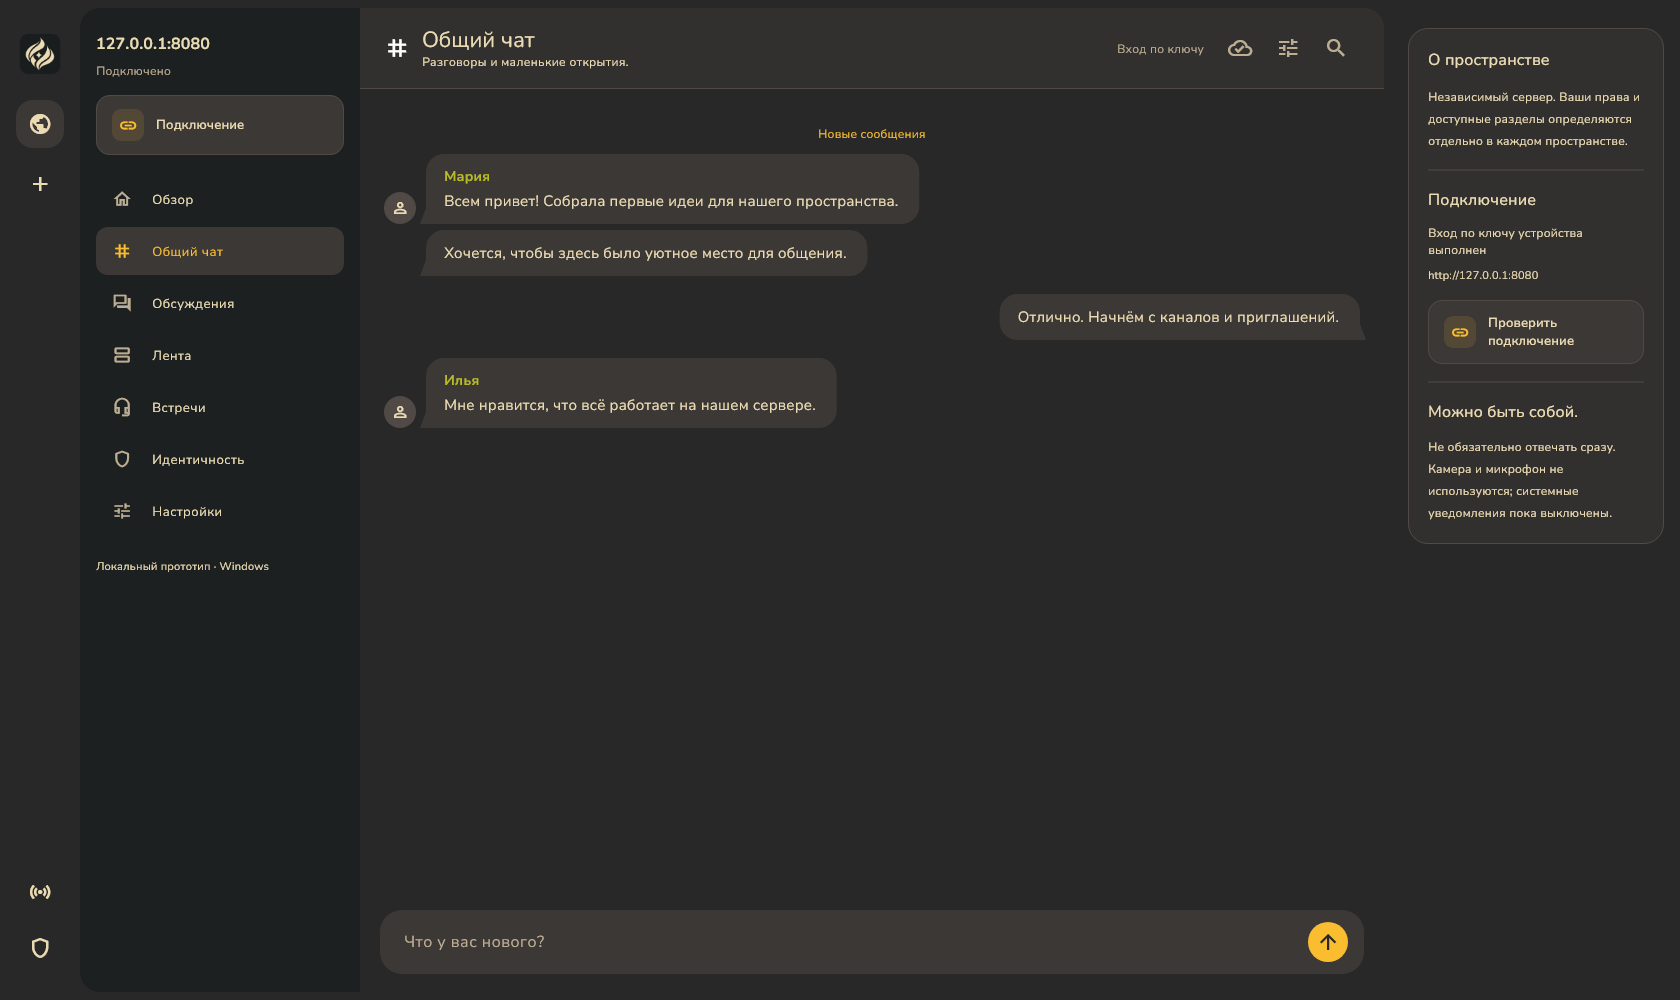
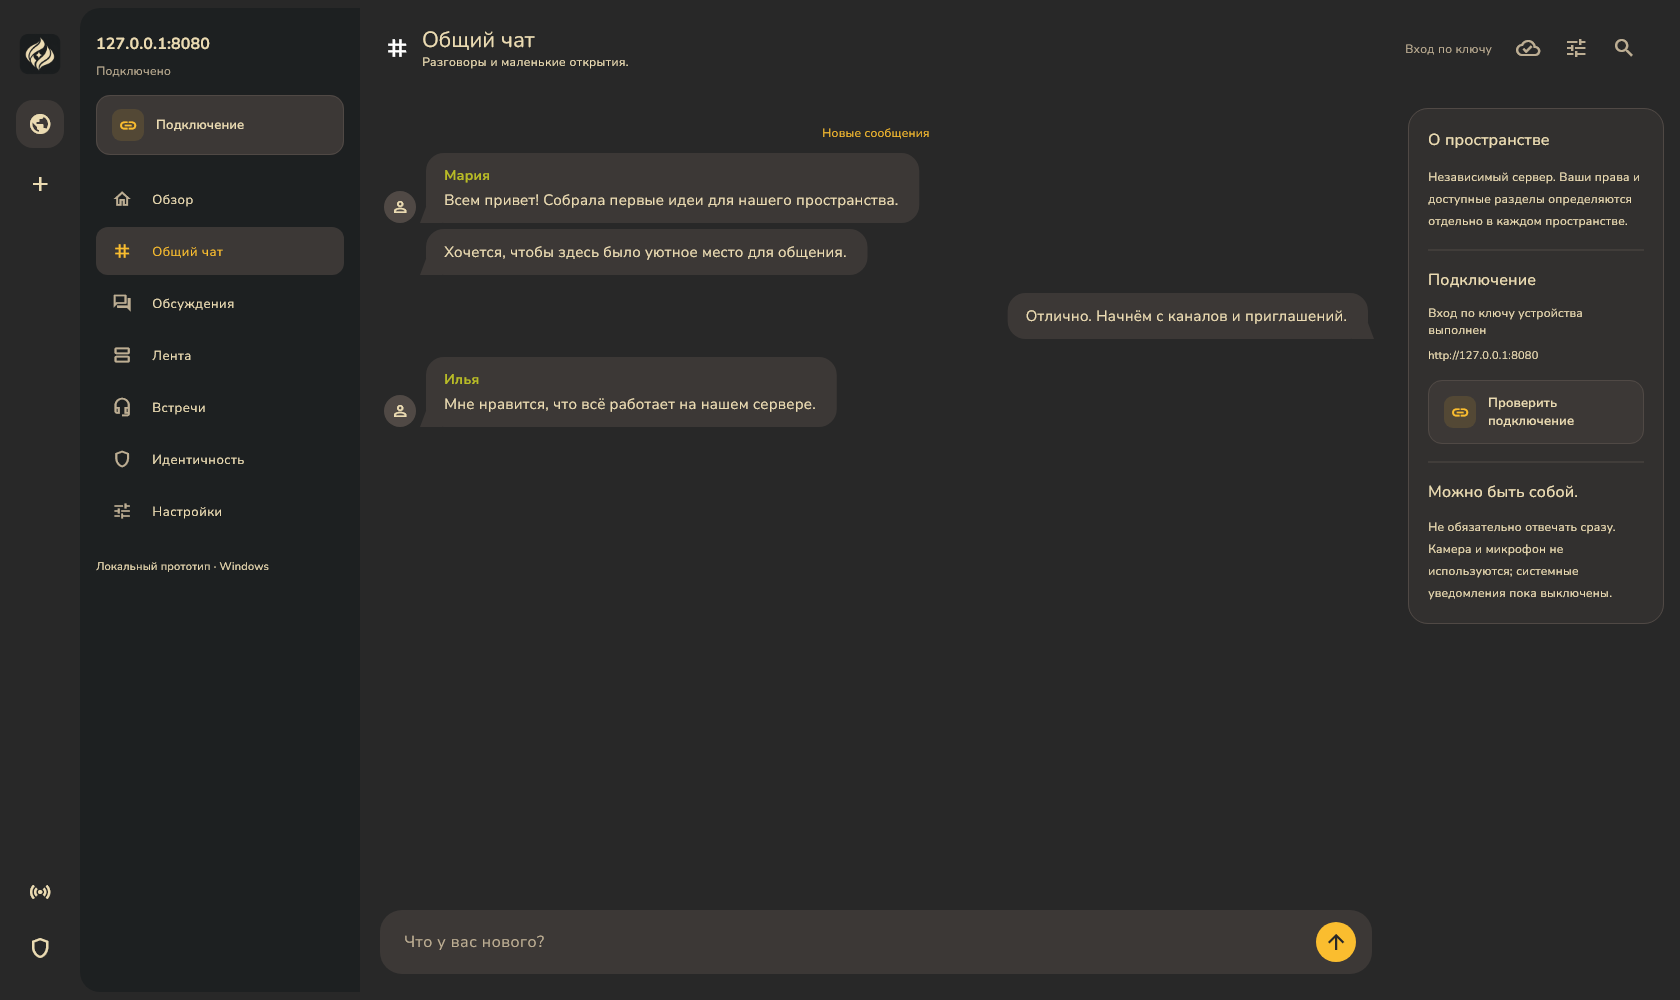
ui: integrate context card into workspace and remove header fill

diff --git a/client/lib/ui/shell.dart b/client/lib/ui/shell.dart
@@ -625,14 +625,8 @@ class _SpaceShellState extends State<SpaceShell> {
       SettingsPanel(preferences: widget.preferences),
     ],
   );
-  Widget header(bool compact) => Container(
+  Widget header(bool compact) => Padding(
     padding: const EdgeInsets.symmetric(horizontal: 24, vertical: 16),
-    decoration: BoxDecoration(
-      color: Theme.of(context).colorScheme.surface,
-      border: Border(
-        bottom: BorderSide(color: Theme.of(context).colorScheme.outlineVariant),
-      ),
-    ),
     child: Row(
       children: [
         if (compact)
@@ -750,7 +744,15 @@ class _SpaceShellState extends State<SpaceShell> {
                   style: TextStyle(color: Theme.of(context).colorScheme.error),
                 ),
               ),
-            Expanded(child: pages()),
+            Expanded(
+              child: Row(
+                crossAxisAlignment: CrossAxisAlignment.stretch,
+                children: [
+                  Expanded(child: pages()),
+                  if (box.maxWidth >= 1320) contextPanel(),
+                ],
+              ),
+            ),
           ],
         );
         return CallbackShortcuts(
@@ -834,10 +836,6 @@ class _SpaceShellState extends State<SpaceShell> {
                           ),
                         ),
                       ),
-                      if (box.maxWidth >= 1320) ...[
-                        const SizedBox(width: 8),
-                        contextPanel(),
-                      ],
                     ],
                   ),
                 ),

diff --git a/Changelog.md b/Changelog.md
@@ -4,6 +4,8 @@
 
 ## Unreleased
 
+- Правая карточка пространства включена в общую центральную область; верхняя строка больше не имеет отдельной заливки и границы, её действия размещены над всей рабочей областью.
+
 - Переведены сообщения операций и подтверждения восстановления, сопряжения и смены root на RU/中文/EN. Смена языка обновляет открытое подтверждение без изменения адреса и согласия. В завершении смены ключа используется штатный TLS-канал сервера; восстановление сразу проверяет TLS-отпечаток из карточки.
 
 - Исправлен тёмный просвет между хвостиком и телом пузырька: оба контура объединены в одну сплошную фигуру для входящих и исходящих сообщений.
